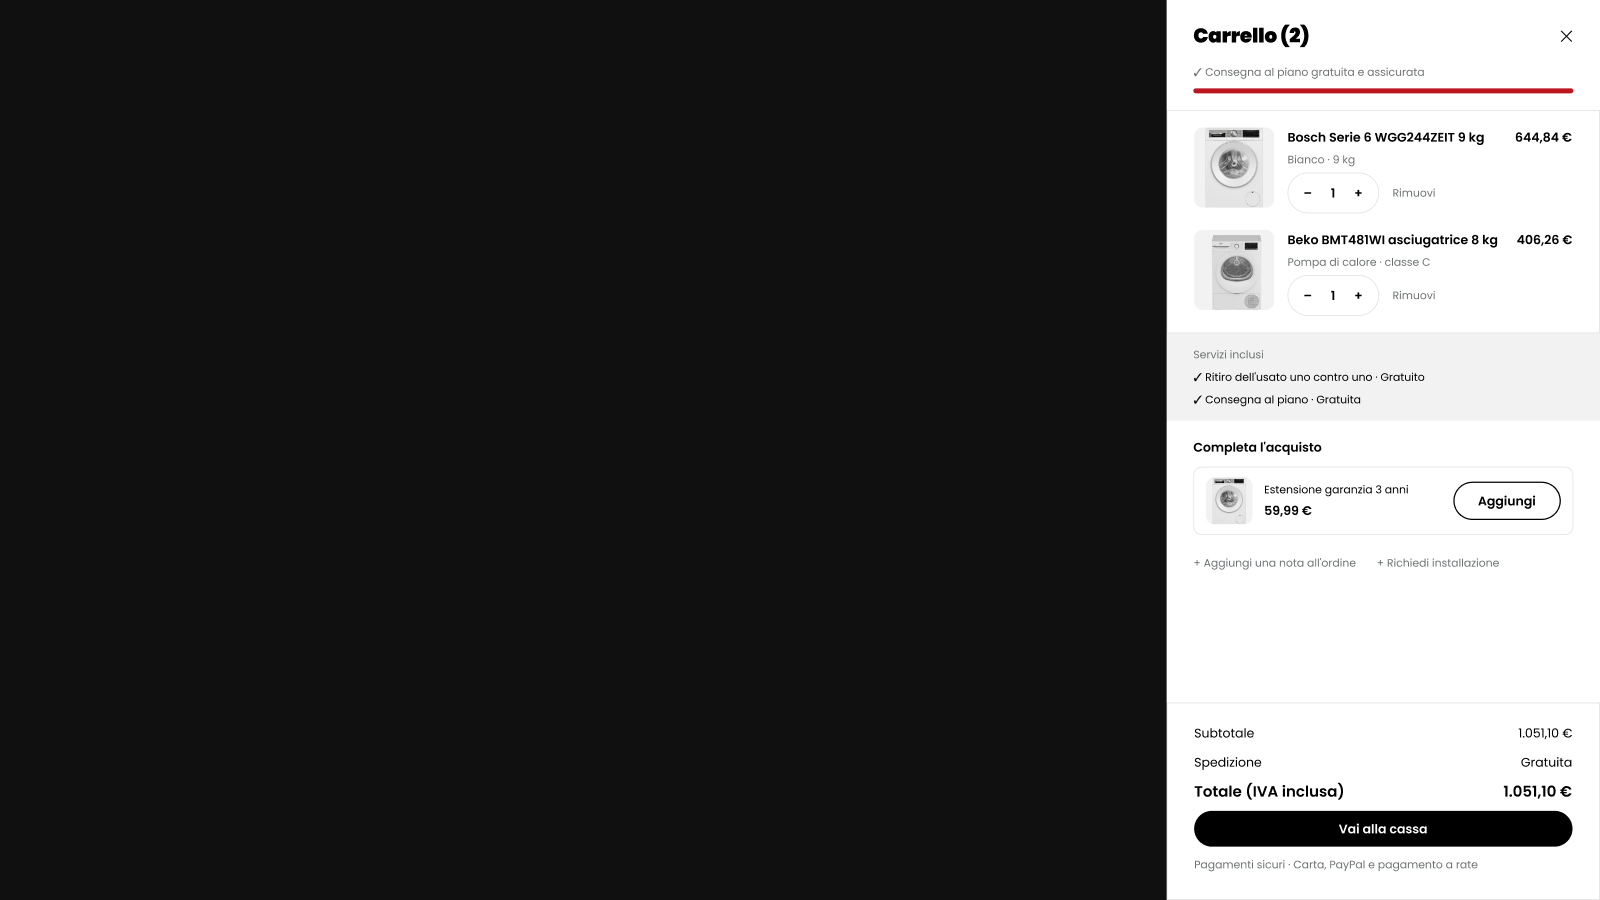
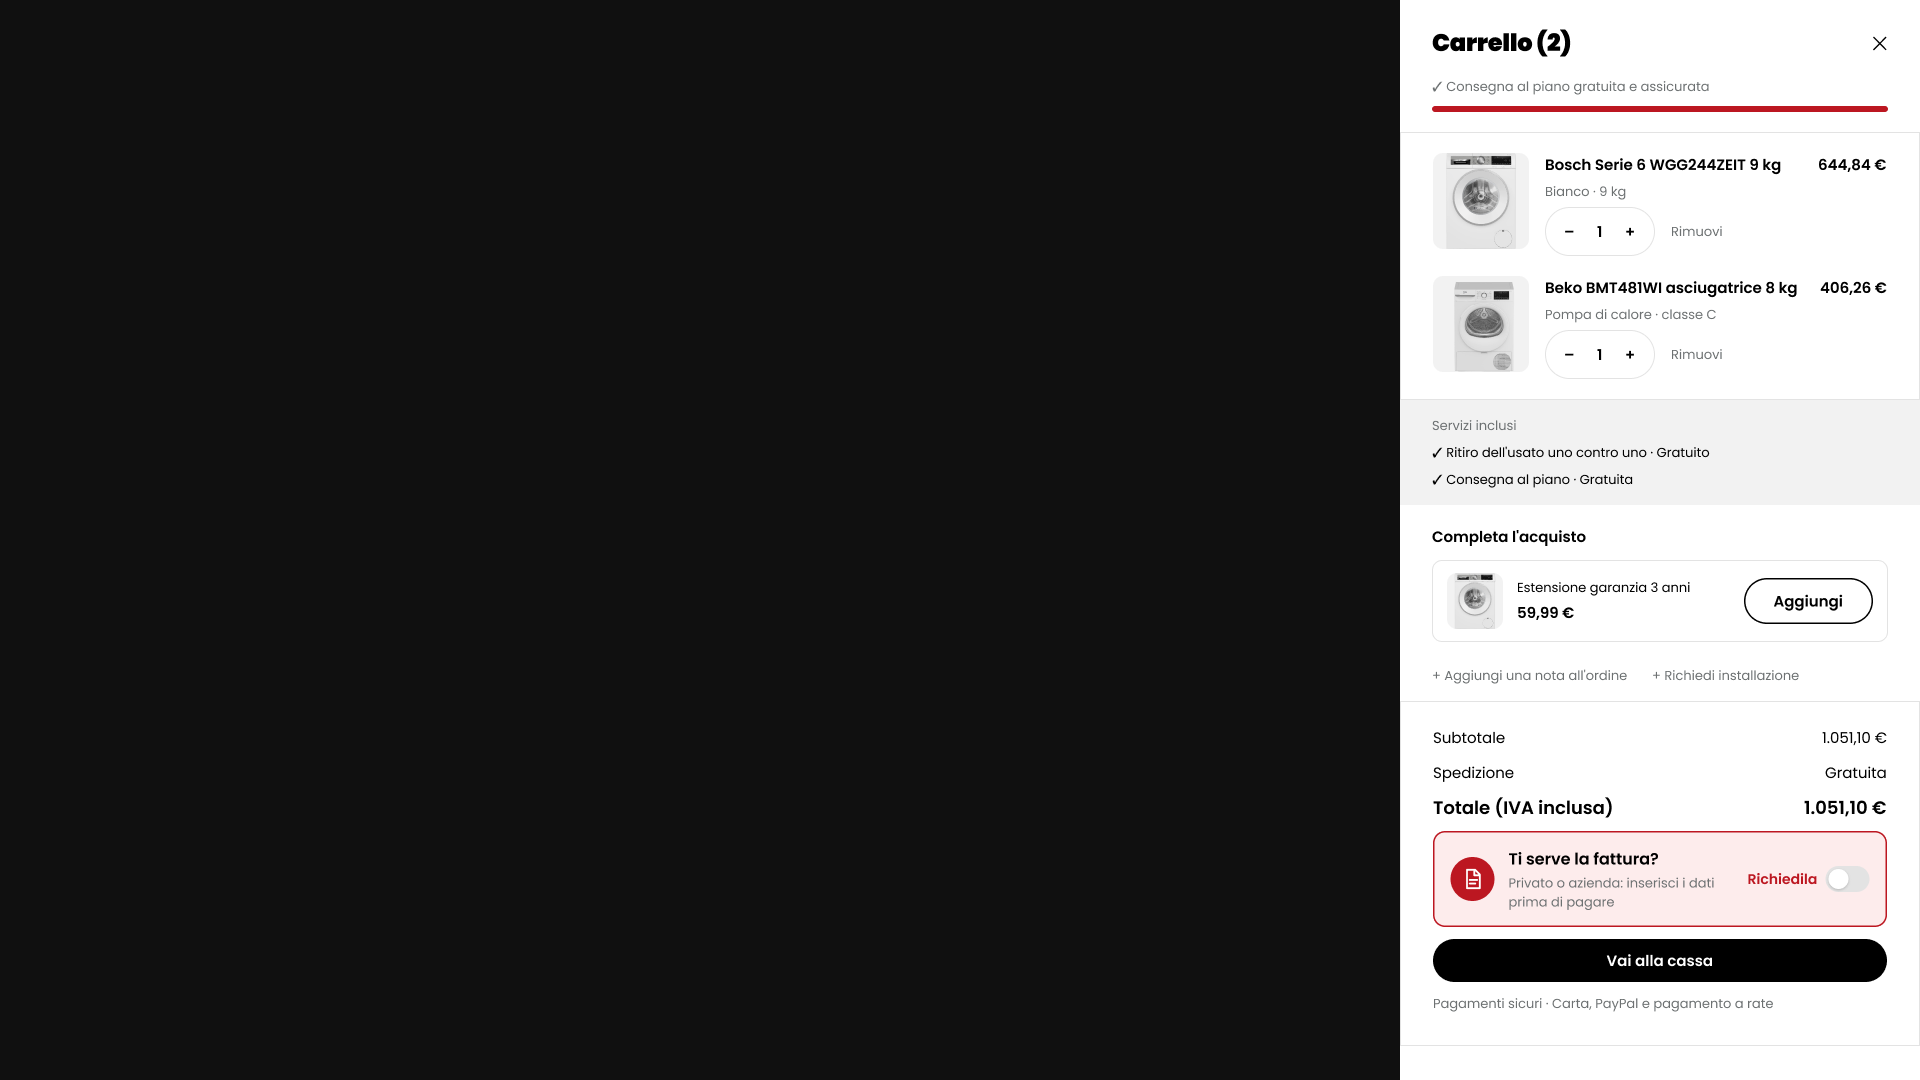
Cart drawers: prominent 'Ti serve la fattura?' block above checkout on all three sites (desktop and mobile)
Claude-Session: https://claude.ai/code/session_01DzDcr4Xa4AaqXv1Nbqd2T5

Changed region(s): [[0.75, 0.6533, 1.0, 0.9644], [0.8438, 0.2489, 0.9375, 0.28], [0.9375, 0.5289, 0.9688, 0.56]]

diff --git a/docs/figma/pages-b2c.md b/docs/figma/pages-b2c.md
@@ -109,3 +109,24 @@ In Shopify the list can be generated from the product vendors (`shop.vendors`), 
 or to a collection per brand.
 
 Renders: `docs/screenshots/after/<brand>-06b-menu-marche.png`.
+
+## Invoice request in the cart drawer (2026-11-18, all three sites)
+
+The cart drawers (04 desktop, M04 mobile) now have a prominent **"Ti serve la fattura?"** block in the summary, right
+above "Vai alla cassa": invoice icon in a brand-colour circle, title, "Privato o azienda: inserisci i dati prima di
+pagare", "Richiedila" + toggle (off). Light brand tint with a brand-colour border (TamTam red, MisterCucina orange,
+Trovaincasso dark green). Frame `Richiesta fattura` inside `Riepilogo`.
+
+Prototype: clicking the block opens the full cart page with the invoice form (08 desktop, M10 mobile), which is where
+the theme block in `shopify/invoice-request/` lives (in the theme the toggle in the drawer can also open the same
+fields inline, see the README "Cart drawer").
+
+| | TamTam | MisterCucina | Trovaincasso |
+|---|---|---|---|
+| Drawer 04 → 08 | `37:838` → `149:1904` | `43:1932` → `153:5685` | `46:1805` → `154:5110` |
+| Mobile M04 → M10 | `114:1453` → `161:3515` | `117:3398` → `163:8061` | `122:3009` → `164:7117` |
+
+Trovaincasso already had a small "Ti serve la fattura?" field and a "+ Richiedi fattura" link in the drawer: they are
+now hidden (replaced by the new block). On mobile the spacing was tightened so everything fits in 844 px.
+
+Renders: `docs/screenshots/after/<brand>-04-cart.png`, `docs/screenshots/mobile/<brand>-m04-cart.png`.

diff --git a/CLAUDE.md b/CLAUDE.md
@@ -56,6 +56,8 @@ Full-page renders: `docs/screenshots/after/*.png` (current) and `docs/screenshot
   - Mobile screens M08–M14 (2026-11-13) mirror boards 06–12; ids in [docs/figma/mobile.md](docs/figma/mobile.md).
   - **"Marche" menu (2026-11-17):** first-level header item + megamenu 06b and mobile M06b (top logos + A–Z list of
     41 brands); ids in [docs/figma/pages-b2c.md](docs/figma/pages-b2c.md).
+  - **Invoice request in the cart drawer (2026-11-18):** prominent "Ti serve la fattura?" block above "Vai alla cassa"
+    in 04 and M04, linked to the cart pages 08 / M10.
 - **Product cards (2026-11-16, all three pages):** new card sets `Card prodotto · griglia` / `· lista` and
   `Mobile / Card prodotto · griglia` / `· lista` (brand logo, SKU, stars, availability traffic light, stronger discount
   with savings, "IVA inclusa"), plus grid/list boards 02b and M02b. The old `Card prodotto` components were deleted.
